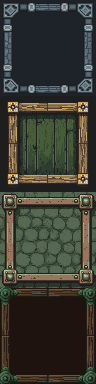
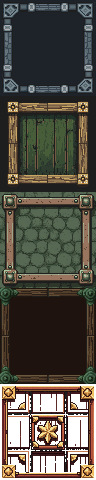
Convert the battle screen's last 2 boxes to real pixel-art borders
Generated a 5th UiPanelTheme (Battle) via PixelLab - ornate carved
wood with gold star-medallion corners, matching a direct reference
image - the first theme not tied to a map theme (the existing four
mirror map_builder::dungeon_theme_pool()). Verified with the same
pixel-health/tiling-seam checks every prior material got: near-black
opaque pixels floored to the safe minimum, transparent background
confirmed genuine, edges retiled into a stress-test box with no
visible seams. Composited into resources/ui_panels.png as a new 5th
row-band (3 cols x 15 rows now, was 12).

Converted the battle screen's last 2 remaining draw_ascii_box sites -
the ability-selection ("Actions") box and the battle log - to
draw_filled_pixel_box_scaled with the new Battle theme at
PIXEL_BOX_TILE_SCALE_COMPACT (both are narrow/short enough to need the
compact scale, same reasoning as the dungeon HUD bars). This was the
last of the original 13 sites - draw_ascii_box itself is now dead code
and removed entirely.

Two real details, not just a mechanical swap:
- The battle log used to be positioned in FINE_TEXT_CONSOLE's own
  finer 160x100 grid, not HUD_CONSOLE's - the panel-border pipeline
  only works in HUD_CONSOLE units, so position converts via the real
  pixel ratio between the two consoles, but WIDTH/HEIGHT are chosen
  fresh for "how many HUD_CONSOLE characters fit" rather than naively
  shrunk by the same ratio, which would have left too narrow a box for
[…]

diff --git a/ever_space_rrpg/src/screens/battle.rs b/ever_space_rrpg/src/screens/battle.rs
@@ -865,26 +865,55 @@ impl State {
         // column 48, so the box is centered there too. Sits in the gap
         // between the enemy panel and the player's status/name/HP block
         // (starts row 57), with a line of padding on both sides.
-        const MSG_BOX_X: i32 = 36;
-        const MSG_BOX_Y: i32 = 45;
-        const MSG_BOX_WIDTH: i32 = 24;
-        const MSG_BOX_HEIGHT: i32 = MAX_LOG_LINES as i32 + 2;
+        //
+        // The real PixelLab panel border (item 10 in docs/ideas.md),
+        // Battle theme - converted 2026-09-14, the last of the original
+        // 13 draw_ascii_box sites. draw_filled_pixel_box_scaled (and
+        // every panel-border helper) works in HUD_CONSOLE cell units,
+        // not FINE_TEXT_CONSOLE's own finer 160x100 grid this box used
+        // to be positioned in - MSG_BOX_X/Y convert via the real pixel
+        // ratio between the two consoles (both span the same 1280x800
+        // window). WIDTH/HEIGHT are NOT converted the same way: a
+        // straight pixel-ratio shrink of the OLD fine-grid width (24
+        // characters) would leave a box too narrow to hold the same
+        // battle-log text once that text ALSO moves onto this coarser
+        // grid (see below) - width here means "how many HUD_CONSOLE
+        // characters fit," a different question from "how many physical
+        // pixels did the old box occupy." Chosen empirically, like every
+        // other first-pass box size in this project - pending a
+        // screenshot.
+        const MSG_BOX_X: i32 = 36 * HUD_COLS / 160;
+        const MSG_BOX_Y: i32 = 45 * HUD_ROWS / 100;
+        const MSG_BOX_WIDTH: i32 = 30;
+        const MSG_BOX_HEIGHT: i32 = MAX_LOG_LINES as i32 + 3;
 
-        let mut log_batch = DrawBatch::new();
-        log_batch.target(FINE_TEXT_CONSOLE);
-        draw_ascii_box(
-            &mut log_batch,
+        let mut log_panel_batch = DrawBatch::new();
+        log_panel_batch.target(UI_PANEL_CONSOLE);
+        draw_filled_pixel_box_scaled(
+            &mut log_panel_batch,
             MSG_BOX_X,
             MSG_BOX_Y,
             MSG_BOX_WIDTH,
             MSG_BOX_HEIGHT,
-            ColorPair::new(WHITE, BLACK),
+            UiPanelTheme::Battle,
+            PIXEL_BOX_TILE_SCALE_COMPACT,
         );
-        log_batch.submit(0).expect("Batch error");
+        log_panel_batch.submit(0).expect("Batch error");
 
+        // Text moves onto PANEL_TEXT_CONSOLE (shares HUD_CONSOLE's own
+        // grid) rather than staying on FINE_TEXT_CONSOLE or printing
+        // straight onto HUD_CONSOLE - same reason every other converted
+        // box needs it: text printed on the SAME console as the fill
+        // would overwrite the fill's own cells (SimpleConsole::set
+        // replaces, it doesn't layer) rather than sitting on top of it.
+        // "Battle Log" title added - every other converted box already
+        // has one; this was the one box on the whole screen that didn't.
+        ctx.set_active_console(PANEL_TEXT_CONSOLE);
+        ctx.print_color(MSG_BOX_X + 2, MSG_BOX_Y, YELLOW, BLACK, "Battle Log");
         for (i, line) in battle.log.iter().enumerate() {
-            ctx.print_color(MSG_BOX_X + 2, MSG_BOX_Y + 1 + i as i32, WHITE, BLACK, line);
+            ctx.print_color(MSG_BOX_X + 2, MSG_BOX_Y + 2 + i as i32, WHITE, BLACK, line);
         }
+        ctx.set_active_console(FINE_TEXT_CONSOLE);
 
         // --- Floating damage numbers: bigger (32px cells, same "big
         // text" font used for title/class-select screens), and centered
@@ -971,18 +1000,22 @@ impl State {
         // action RIGHT NOW - either a normal open PlayerMenu, or (True
         // ATB only) the queuing window during some enemy's own
         // ActionResult (see Battle::queued_player_action's doc comment).
-        // Drives the Actions box border color below (green normally,
-        // yellow while this is true) rather than tinting the player's
-        // own portrait - a portrait tint turned out to read as a stray
-        // color change with no clear meaning, and worse, it silently
-        // went dark again the instant an enemy interrupted (turn moved
-        // off PlayerMenu) even though - under True ATB - the player
-        // could very much still act in that moment via queuing. The box
-        // color is checked here, once, against the SAME condition that
-        // actually gates input capture in both spots below (PlayerMenu's
-        // own key handling and ActionResult(Enemy(_))'s queuing capture),
-        // so it can never drift out of sync with what's actually
-        // interactive.
+        // Drives the Actions box's own "Actions" title color below
+        // (green normally, yellow while this is true) - originally the
+        // BORDER's color, moved to the title 2026-09-14 once the border
+        // switched to the real PixelLab panel art, which always tints
+        // WHITE regardless of category color (see draw_pixel_box's own
+        // doc comment for why a tint crushes that shaded material).
+        // Neither the border NOR the title tried tinting the player's
+        // own portrait for this - a portrait tint turned out to read as
+        // a stray color change with no clear meaning, and worse, it
+        // silently went dark again the instant an enemy interrupted
+        // (turn moved off PlayerMenu) even though - under True ATB - the
+        // player could very much still act in that moment via queuing.
+        // Checked here, once, against the SAME condition that actually
+        // gates input capture in both spots below (PlayerMenu's own key
+        // handling and ActionResult(Enemy(_))'s queuing capture), so it
+        // can never drift out of sync with what's actually interactive.
         let player_can_act = battle.turn == BattleTurn::PlayerMenu
             || (atb_mode == AtbMode::Active
                 && battle.queued_player_action.is_none()
@@ -1169,28 +1202,46 @@ impl State {
         // 40) never runs off the bottom of the console.
         let box_y = box_y_base.min(HUD_ROWS - box_height);
 
-        let mut menu_batch = DrawBatch::new();
-        menu_batch.target(HUD_CONSOLE);
-        // Border color reflects player_can_act (see its own doc comment
-        // above) - yellow whenever the player can issue an action right
-        // now, green otherwise. Replaces the earlier attempt at tinting
-        // the player's own portrait, which read as an unexplained color
-        // change and, worse, dropped out the instant the enemy
-        // interrupted even when queuing (True ATB) still meant the
-        // player could act.
-        let box_border_color = if player_can_act { YELLOW } else { GREEN };
-        draw_ascii_box(
-            &mut menu_batch,
+        // The real PixelLab panel border (item 10 in docs/ideas.md),
+        // Battle theme - converted 2026-09-14, the last of the original
+        // 13 draw_ascii_box sites besides the battle log just below.
+        // panel_batch (UI_PANEL_CONSOLE) draws fill+border; every print
+        // in this box moves onto PANEL_TEXT_CONSOLE below (not
+        // HUD_CONSOLE) for the same reason every other converted box
+        // needs it - see PANEL_TEXT_CONSOLE's own doc comment in
+        // main.rs. PIXEL_BOX_TILE_SCALE_COMPACT, not the default scale -
+        // this box's width (BOX_COL_WIDTH*2+3 = 43 HUD columns) is
+        // narrow enough, and its height short enough, to hit the same
+        // "border eats too much of the box" problem the dungeon HUD
+        // bars did at the default scale.
+        //
+        // The border no longer switches color with player_can_act (was
+        // yellow/green) - `draw_pixel_box` always tints WHITE regardless
+        // of category color (see its own doc comment for why a tint
+        // crushes this shaded material), same as every other converted
+        // box. The signal moved to the "Actions" title's own color
+        // instead - see the print_color call below.
+        let mut menu_panel_batch = DrawBatch::new();
+        menu_panel_batch.target(UI_PANEL_CONSOLE);
+        draw_filled_pixel_box_scaled(
+            &mut menu_panel_batch,
             BOX_X,
             box_y,
             box_width,
             box_height,
-            ColorPair::new(box_border_color, BLACK),
+            UiPanelTheme::Battle,
+            PIXEL_BOX_TILE_SCALE_COMPACT,
         );
-        menu_batch.submit(0).expect("Batch error");
+        menu_panel_batch.submit(0).expect("Batch error");
 
-        ctx.set_active_console(HUD_CONSOLE);
-        ctx.print_color(BOX_X + 1, box_y + 1, YELLOW, BLACK, "Actions");
+        ctx.set_active_console(PANEL_TEXT_CONSOLE);
+        // "You can act" indicator moved here from the border's own tint
+        // (yellow/green) - draw_pixel_box always tints WHITE now (see
+        // menu_panel_batch's own comment above), so the title's color is
+        // where this signal lives instead, same as every other converted
+        // box's category color.
+        let title_color = if player_can_act { YELLOW } else { GREEN };
+        ctx.print_color(BOX_X + 1, box_y + 1, title_color, BLACK, "Actions");
         for (row, (i, entry)) in main_actions.iter().enumerate() {
             let (label, color) = menu_row_label(*i, entry);
             let selected = battle.menu_cursor.col == 0 && battle.menu_cursor.row == row;

diff --git a/ever_space_rrpg/src/render_helpers.rs b/ever_space_rrpg/src/render_helpers.rs
@@ -210,65 +210,27 @@ pub fn print_menu_row_left(
     }
 }
 
-/// Draws a hollow rectangular border - plain '-'/'|'/'+' characters, built
-/// from the same DrawBatch::set + to_cp437 primitives already proven
-/// throughout this file (map/portrait/arena rendering), rather than
-/// reaching for a higher-level box-drawing API this project hasn't used
-/// anywhere else. Used to frame the battle-menu action list - see
-/// BattleTurn::PlayerMenu in battle_tick.
-///
-/// Named draw_ascii_box, not draw_hollow_box: bracket_lib::prelude already
-/// exports its own draw_hollow_box (a different function entirely - takes
-/// a &mut dyn Console and two separate RGBA fg/bg args, not a DrawBatch +
-/// ColorPair). Before this project's screens/ split, this function lived
-/// directly in main.rs, where a local definition silently wins over any
-/// same-named glob import - so the collision was invisible. Once this
-/// moved into render_helpers.rs and got glob-imported into the shared
-/// prelude module alongside bracket_lib::prelude::*, both became equally
-/// "just a glob import" and Rust could no longer prefer one over the
-/// other, surfacing as an ambiguous-name error at every call site. Renaming
-/// is the permanent fix - two same-named functions can't collide if
-/// they're not actually the same name.
-pub fn draw_ascii_box(
-    batch: &mut DrawBatch,
-    x: i32,
-    y: i32,
-    width: i32,
-    height: i32,
-    color: ColorPair,
-) {
-    let dash = to_cp437('-');
-    let pipe = to_cp437('|');
-    let corner = to_cp437('+');
-    for dx in 0..width {
-        batch.set(Point::new(x + dx, y), color, dash);
-        batch.set(Point::new(x + dx, y + height - 1), color, dash);
-    }
-    for dy in 0..height {
-        batch.set(Point::new(x, y + dy), color, pipe);
-        batch.set(Point::new(x + width - 1, y + dy), color, pipe);
-    }
-    batch.set(Point::new(x, y), color, corner);
-    batch.set(Point::new(x + width - 1, y), color, corner);
-    batch.set(Point::new(x, y + height - 1), color, corner);
-    batch.set(Point::new(x + width - 1, y + height - 1), color, corner);
-}
-
-/// Which of `resources/ui_panels.png`'s four theme bands `draw_pixel_box`
+/// Which of `resources/ui_panels.png`'s five theme bands `draw_pixel_box`
 /// should draw from - see that sheet's own row-mapping doc
-/// (`docs/UI_Panel_Sheet_Guide.md`). Each theme owns 3 of the sheet's 12
-/// rows (a 3x3 nine-slice grid, 32px cells), in the same order
-/// `map_builder::dungeon_theme_pool()` already uses.
+/// (`docs/UI_Panel_Sheet_Guide.md`). Each theme owns 3 of the sheet's 15
+/// rows (a 3x3 nine-slice grid, 32px cells). Dungeon/Forest/Sewer/Swamp
+/// are in the same order `map_builder::dungeon_theme_pool()` already
+/// uses; `Battle` (added 2026-09-14) is the first theme NOT tied to a
+/// map theme - it's for the battle screen specifically (the ability-
+/// selection box, the battle log), an ornate carved wood-and-gold
+/// material generated separately, appended as the sheet's 5th band
+/// rather than reusing any of the map-theme rows.
 #[derive(Clone, Copy, Debug, PartialEq, Eq)]
 pub enum UiPanelTheme {
     Dungeon,
     Forest,
     Sewer,
     Swamp,
+    Battle,
 }
 
 impl UiPanelTheme {
-    /// The first of this theme's 3 rows on the 3-col x 12-row
+    /// The first of this theme's 3 rows on the 3-col x 15-row
     /// `ui_panels.png` atlas.
     fn base_row(self) -> i32 {
         match self {
@@ -276,6 +238,7 @@ impl UiPanelTheme {
             UiPanelTheme::Forest => 1,
             UiPanelTheme::Sewer => 2,
             UiPanelTheme::Swamp => 3,
+            UiPanelTheme::Battle => 4,
         }
     }
 
